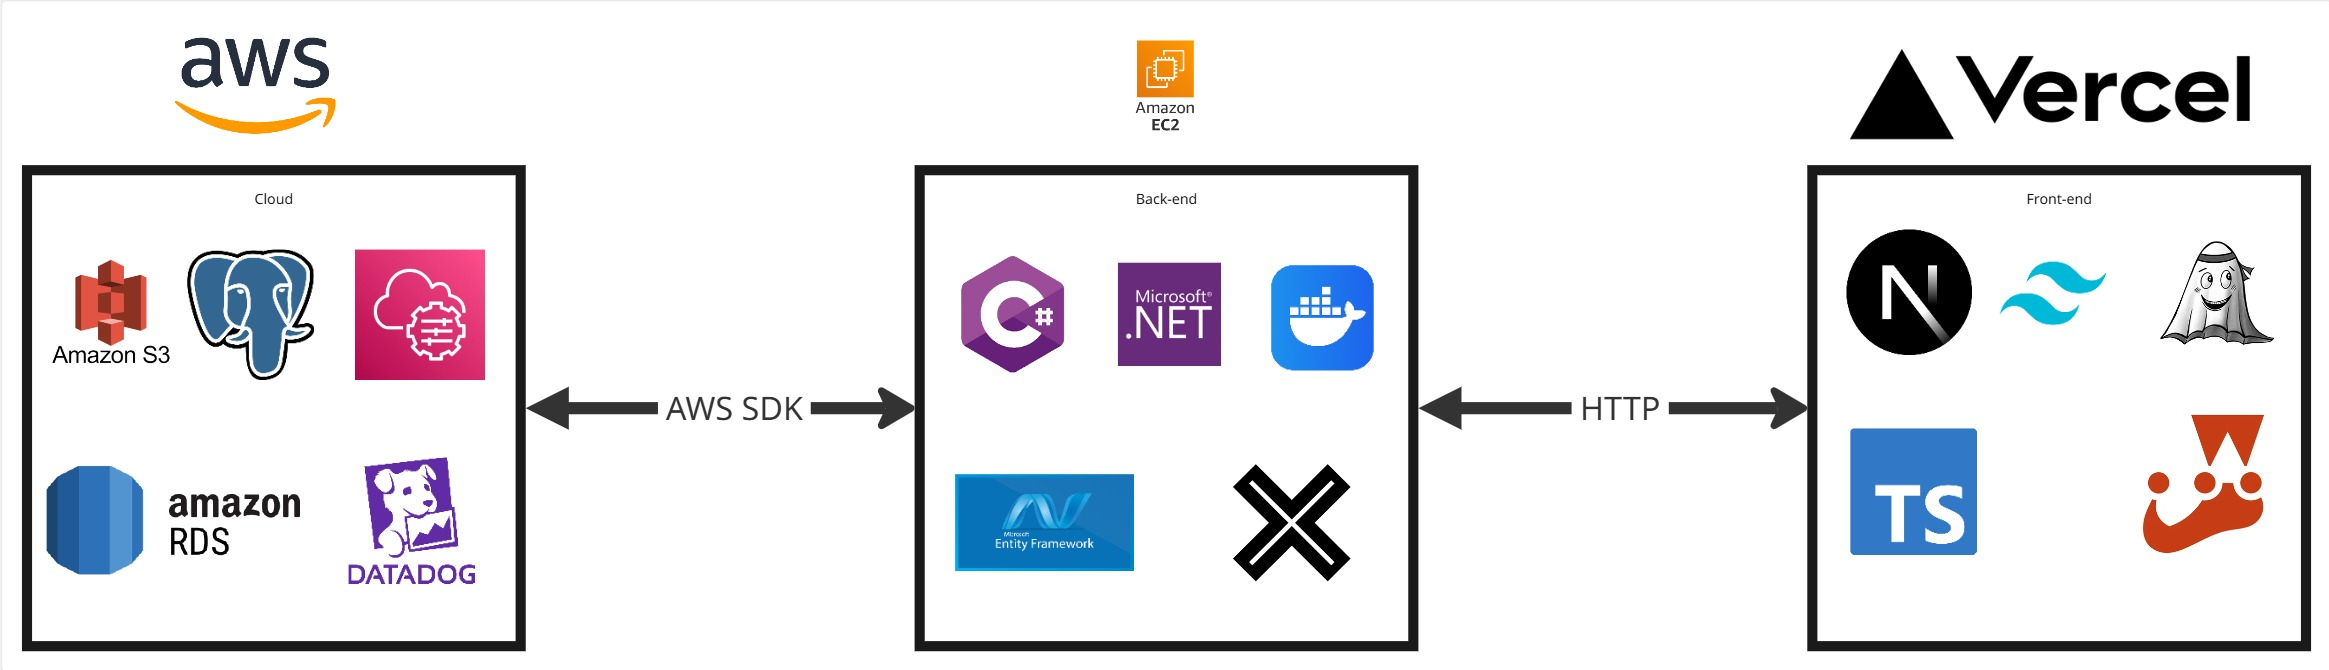
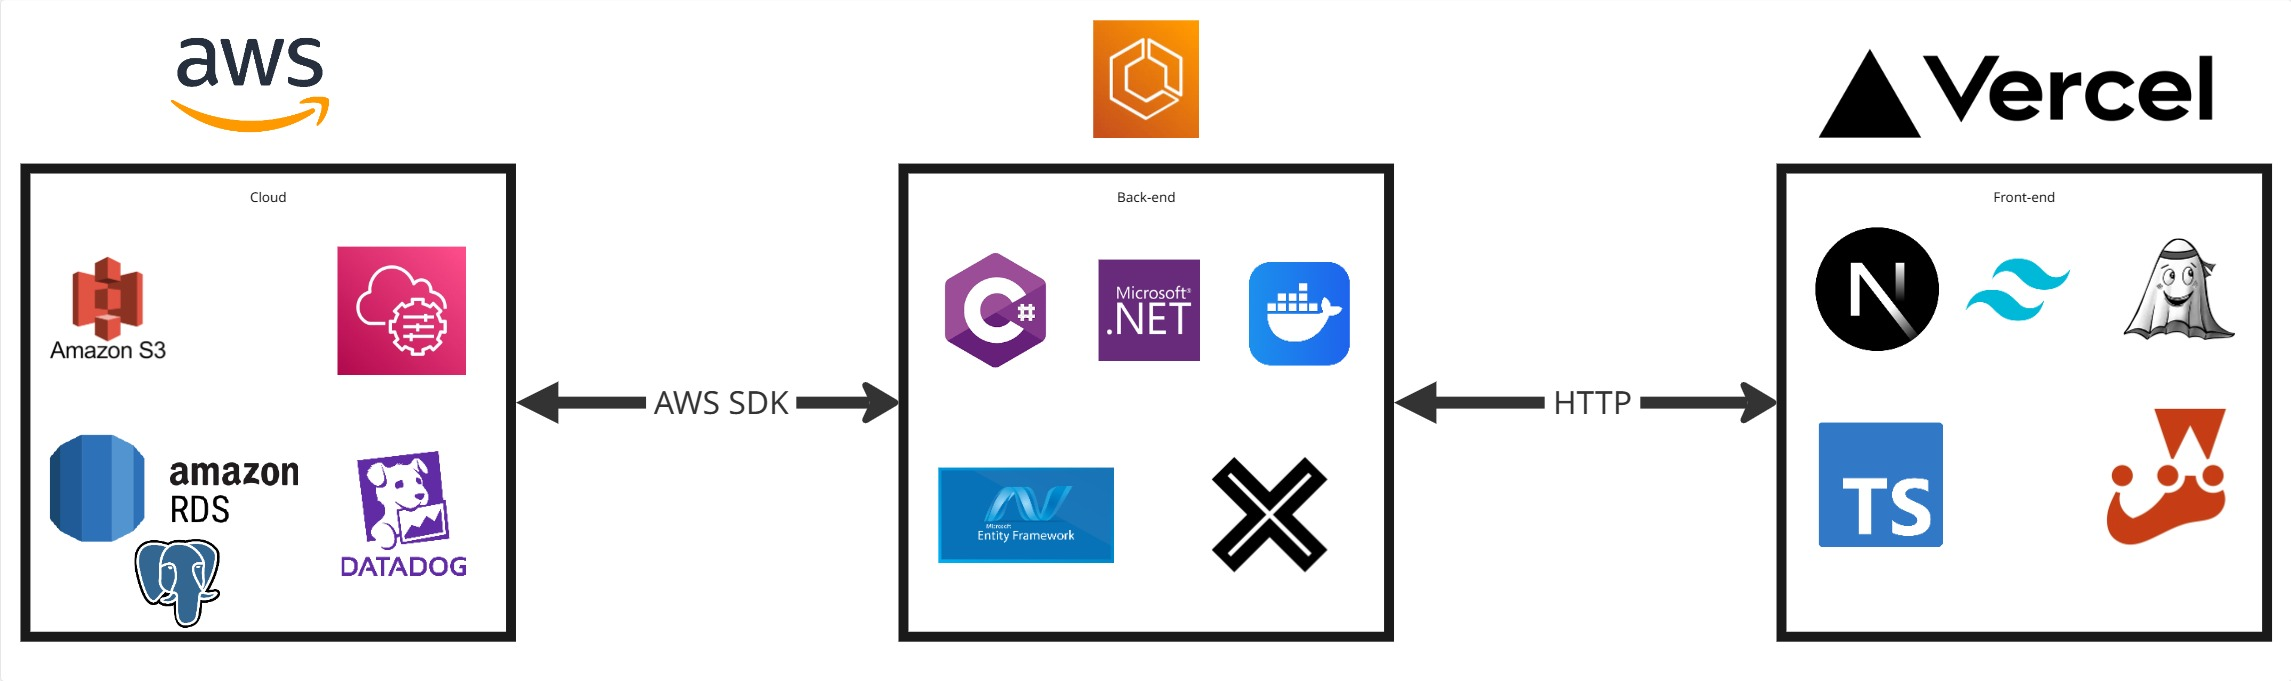
docs: update architecture details in tecnologias.md and replace EC2 with ECS

diff --git a/docs/docs/tecnologias.md b/docs/docs/tecnologias.md
@@ -68,10 +68,10 @@ sidebar_position: 3
 
 O sistema utiliza uma arquitetura MVC orientada a serviços, com back-end rodando em C# com .NET e front-end baseado em TypeScript com NextJS. Para deploy nos ambientes de desenvolvimento e produção, utilizamos docker para conteinerização e AWS como plataforma de cloud.
 
-O back-end roda em uma instância EC2 da AWS (Amazon Elastic Computing Cloud), enquanto o deploy do front-end é feito em Vercel para uma redução de custos. Os serviços de armazenamento e banco de dados funcionam em nuvem com os serviços de Bucket do S3 (Simple Storage System) e RDS (Relational Database System) da AWS respectivamente.
+O back-end roda em uma instância ECS da AWS (Amazon Elastic Container Service), enquanto o deploy do front-end é feito em Vercel para uma redução de custos. Os sistemas de armazenamento e banco de dados funcionam em nuvem com os serviços de Bucket do S3 (Simple Storage System) e RDS (Relational Database System) da AWS, respectivamente. Para o envio de e-mails de recuperação de senha e validação de conta, utilizamos o SES (AWS Simple E-mail Service).
 
 ### Componentes Principais
-- AWS EC2
+- AWS ECS
 - AWS RDS
 - AWS S3
 - Back-end em .NET
